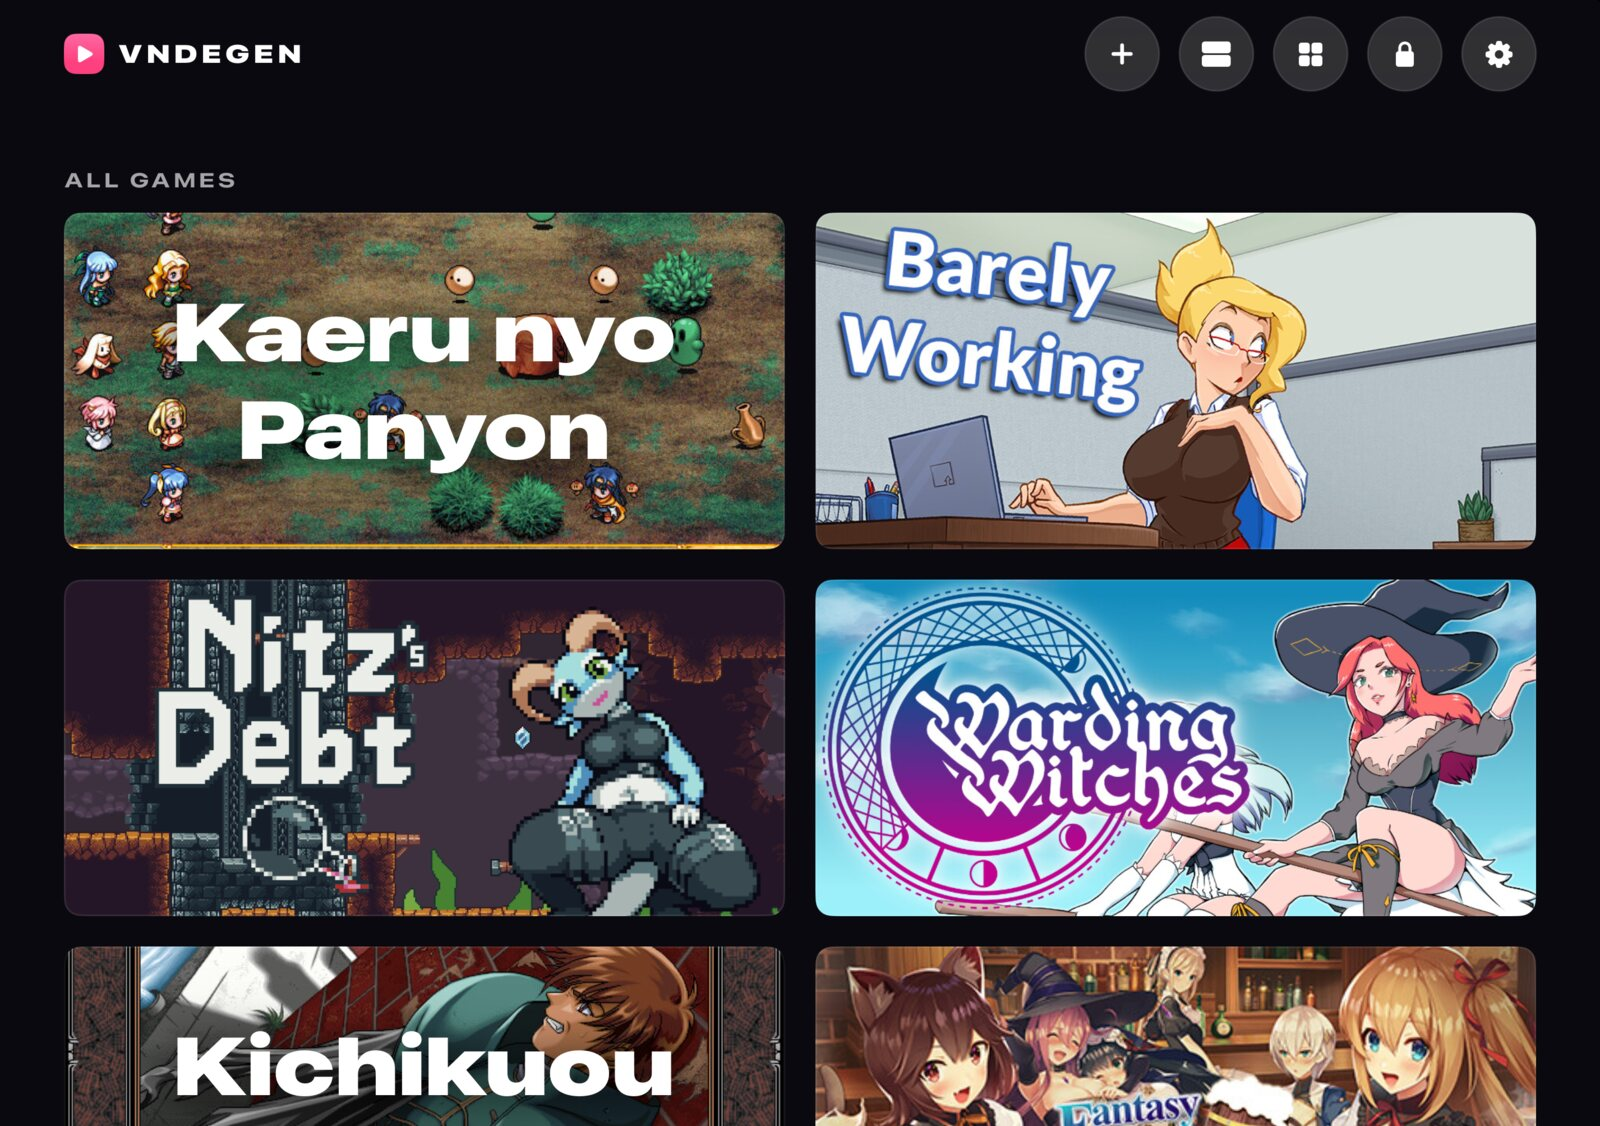
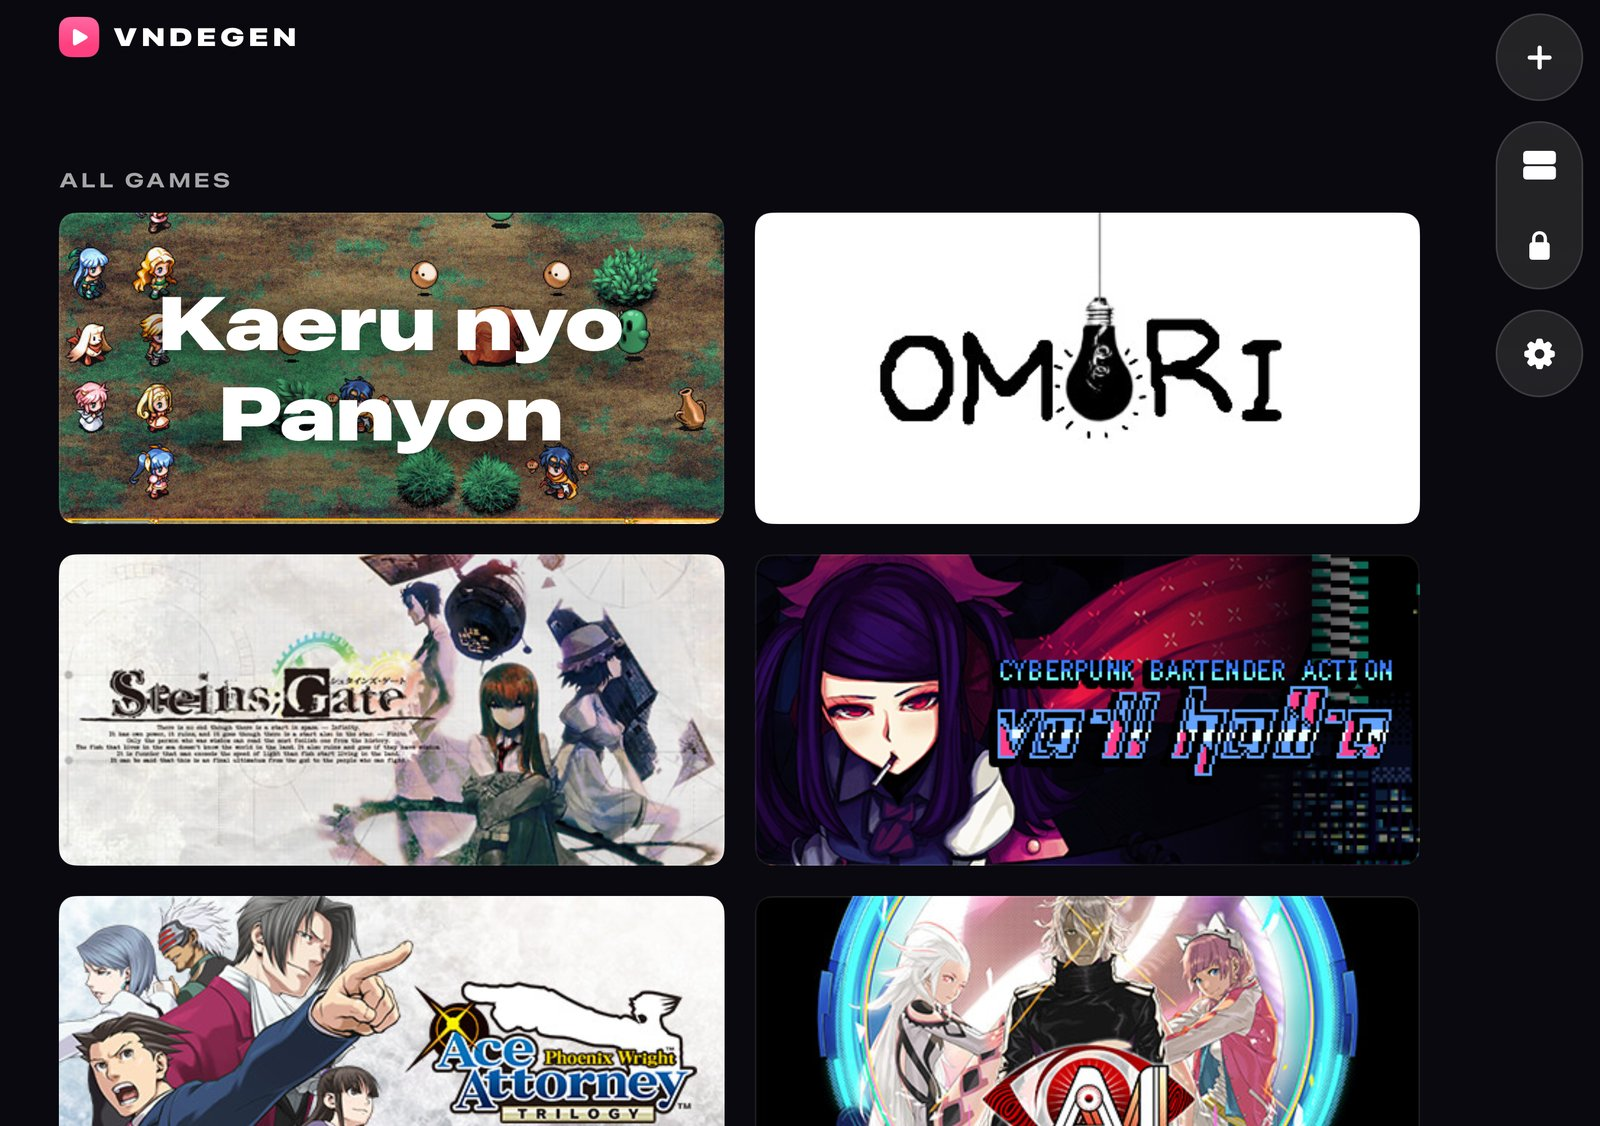
Docs: the iPhone Duo's side bar, fold, and columns, with new screenshots
library.md gains an iPhone Duo section on how the hub follows the
DuoApps patterns: the side bar and sheets' Done, the fold, even column
counts, the banner, and the scrolling VNDegen menu. controls.md says how
a controller moves through the side bar. The two Duo screenshots show
the side bar on both displays.

diff --git a/docs/library.md b/docs/library.md
@@ -81,16 +81,28 @@ RPG Maker MV and MZ clips with transparency are converted the first time they pl
 
 ## Layouts
 
-The view button in the top bar steps the library through four layouts:
+The view button in the top bar, or in the side bar described below, steps the library through four layouts:
 
 - **Featured** puts the focused game's hero art, logo, and Play button above the shelves.
 - **Capsule rows** shows shelves of large portrait capsules.
-- **Header list** stacks each game's wide header art, in as many columns as the screen allows.
-- **Grid** shows every game's capsule in a dense grid, three to a row on iPhone and more on wider screens, with the number of games beside All games.
+- **Header list** stacks each game's wide header art, in as many columns as the screen allows, each at most 480 points wide.
+- **Grid** shows every game's capsule in a dense grid, three to a row on iPhone and more on wider screens, with the number of games beside All games. Tiles stop growing at a little more than the shelves' capsule size, and a wider screen adds a column instead.
 
 iPhone starts on Header list, iPad on Capsule rows, and Mac on Featured, and each device remembers its choice.
 
 The hub adapts to iPhone portrait and landscape, both iPhone Duo displays, iPad, and Mac windows of any size. Folding the Duo or rotating the iPad keeps your place. On iPad, VNDegen also runs in a window of its own, at any size iPadOS allows. The library, game pages, the in-game menu, the touch gamepad, and every engine fit the window and keep clear of its window controls. On a Mac, a game fills the whole window, so the close, minimise and zoom buttons hide while it plays and come back in the library, on game pages, in Settings, and while the VNDegen menu is open. Command-W, Command-M, the menu bar and full screen work as usual.
+
+### iPhone Duo
+
+VNDegen follows the [DuoApps patterns](https://www.duoapps.com/patterns/) for the iPhone Duo, and decides by the space it has and the regions the system reserves, never by the device:
+
+- **Side bar.** Where the system puts its own bars in a vertical column, the hub does too: on the outer display in both orientations, and on the inner display held as a book. The library's Add game, view, lock, and Settings buttons, and Back on game pages and in Settings, sit in that column on the camera's side, grouped on capsules and clear of the camera. When the column is too short for them all, the last ones move into a More menu. Held upright, the inner display keeps the top bar. Sheets put Done in the same column, and on the inner display, where sheets sit in the middle of the screen, keep it at the top.
+- **The fold.** Partly folded, nothing VNDegen draws to be tapped sits on the fold. The VNDegen menu moves to the right half, or below a fold across the screen. Settings and the game page's buttons keep to the left half, and the passcode keypad sits below a fold across the screen, with its title above. Scrolling lists may pass over the fold.
+- **Columns.** On a display that folds, the grid and the header list show an even number of columns, so the fold falls between two, and while partly folded the gap there widens to the fold's width. On the inner display held upright the grid shows six columns where it would otherwise show five.
+- **Game page.** The banner follows the width, between 180 and 540 points tall, and never the screen's height.
+- **The VNDegen menu** scrolls when it is taller than the screen, as on the closed Duo held on its side, so every button stays in reach.
+
+Opening, closing, and folding keep the library's place, an open sheet, a game page's position, and a running game.
 
 ## The game menu
 

diff --git a/docs/controls.md b/docs/controls.md
@@ -47,6 +47,8 @@ Some games ask for something through a dialog of their own, which VNDegen shows 
 | Previous and next page | LB and RB | Q and E, or Page Up and Page Down |
 | Open the VNDegen menu in a game (resume or quit to library) | Home, and View while the menu is open | Backtick (`` ` ``) |
 
+Where the library's buttons sit in a side bar, as on the iPhone Duo, up and down move through them, Down from the last one goes to the games, and Up from the first row of games comes back to the bar. When the VNDegen menu is taller than the screen, it scrolls to keep the focused button in view.
+
 A text field opens VNDegen's on-screen keyboard when you press A on it. A types the focused key, X deletes, LB toggles shift, RB switches to symbols, Y finishes, and B closes the keyboard without changes. In the controller layout sheet, LB and RB jump between groups, B steps back and then closes it, and Reset returns the game to its starting layout: Suggested for this game when it has one, and otherwise its engine's default layout. Remapping A or B never changes how the sheet or the VNDegen menu respond. Adding a game by controller lists the archives in VNDegen's own folder (On My iPhone or On My iPad, VNDegen, on iOS). The Files and Photos pickers need touch or a mouse, and say so on screen.
 
 A controller's Home button, the touch gamepad's house button, the small menu button in the corner, and the backtick always open the VNDegen menu, so a mapping cannot lock you out. On a Mac, the window's close, minimise and zoom buttons hide while a game plays and show again while the VNDegen menu is open. The small menu button starts in the top right corner. Drag it to move it, and it settles in the nearest corner, which the game keeps the next time it starts. With VoiceOver, its Move to next corner action steps it round the corners.

diff --git a/README.md b/README.md
@@ -51,8 +51,8 @@ The view button in the top bar switches between Header list, Capsule rows, Featu
 </p>
 
 <p align="center">
-  <img src="docs/screenshots/hub-duo-outer.jpg" width="300" alt="iPhone Duo folded, on the outer display, in Header list: one column of header art beside the camera inset">
-  <img src="docs/screenshots/hub-duo-inner.jpg" width="520" alt="iPhone Duo unfolded, on the inner display, in Header list: two columns of header art">
+  <img src="docs/screenshots/hub-duo-outer.jpg" width="300" alt="iPhone Duo folded, on the outer display, in Header list: one column of header art, with the Add game, view, lock, and Settings buttons in a side bar below the camera">
+  <img src="docs/screenshots/hub-duo-inner.jpg" width="520" alt="iPhone Duo unfolded, on the inner display, in Header list: two columns of header art, with the same buttons in a side bar on the right">
   <br><sub>iPhone Duo folded, outer display &nbsp;·&nbsp; iPhone Duo unfolded, inner display: Header list</sub>
 </p>
 
